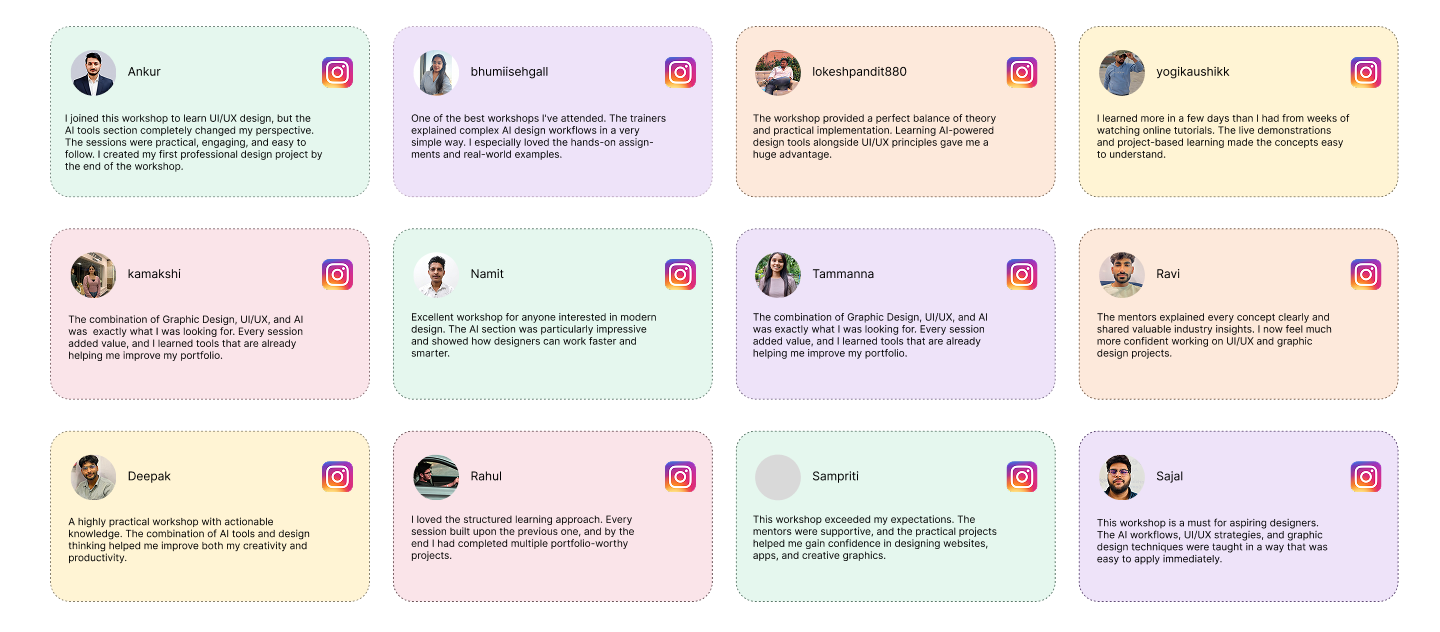
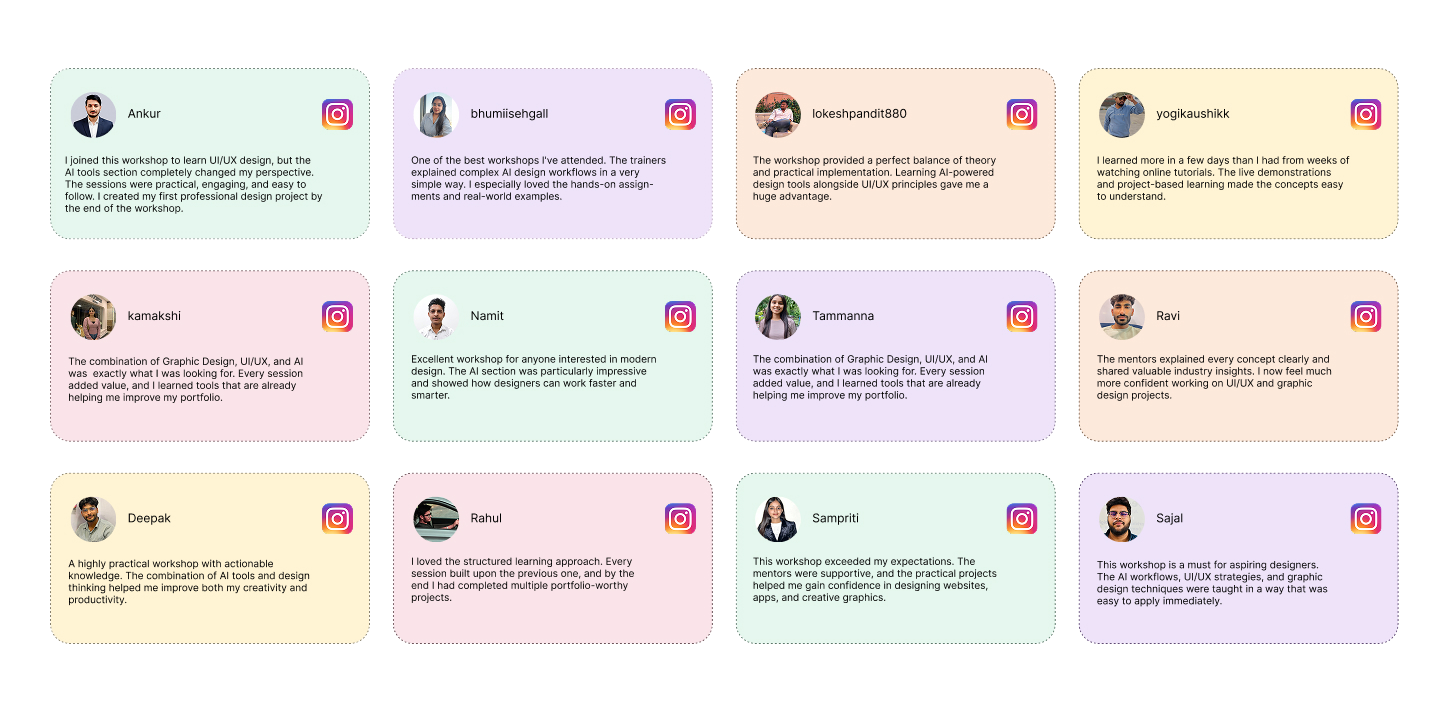
updated

diff --git a/index.html b/index.html
@@ -278,7 +278,7 @@ body{
 
   <!-- ================= LEFT : LOGO ================= -->
   <div class="flex items-center flex-shrink-0 min-w-0">
-<a href="/index.html"  aria-label="Go to Home Page">
+<a href="index.html"  aria-label="Go to Home Page">
     <img
       src="Assets/Desinerz_academy_light.png"
       alt="Desinerz Academy"
@@ -505,9 +505,8 @@ body{
 
     <!-- ═══ TOP HEADING — full width, centered, ALL screen sizes ═══ -->
     <div class="reveal text-center mb-5 max-[900px]:mb-3">
-      <h1 class="font-syne text-3xl font-extrabold mb-3.5 leading-snug 
-      text-[clamp(2rem,2vw,1.5rem)]
-        font-bold leading-tight tracking-tight">
+      <h1 class="font-syne text-3xl font-bold mb-3.5 leading-snug 
+    text-[1.8rem] sm:text-[2rem] lg:text-[2.5rem] tracking-tight">
         This <span class="gradient-text text-[28px] lg:text-[42px]">₹49 </span>Decision Could Change Your Career Forever.
       </h1>
     </div>
@@ -760,10 +759,12 @@ body{
     <div class="bento-card rounded-[18px] relative overflow-hidden border border-transparent cursor-default transition-all duration-300 hover:-translate-y-1 hover:border-blue-500/30 hover:shadow-[0_20px_60px_rgba(0,0,0,.5)] reveal flex flex-col" style="background:rgba(255,255,255,.03);--card-from:rgba(59,130,246,.06)">
       <!-- Arrow + Heading -->
       <div class="p-5 pb-3 flex items-start gap-3">
-        <div class="w-8 h-8 rounded-full flex items-center justify-center flex-shrink-0 mt-0.5" style="background:rgba(59,130,246,.15);border:1px solid rgba(59,130,246,.3)">
+        <div class="w-8 h-8 rounded-full flex items-center justify-center
+         flex-shrink-0 " style="background:rgba(59,130,246,.15);border:1px solid rgba(59,130,246,.3)">
           <svg width="14" height="14" viewBox="0 0 24 24" fill="none" stroke="#3b82f6" stroke-width="2.5" stroke-linecap="round" stroke-linejoin="round"><polyline points="7 17 17 7"/><polyline points="7 7 17 7 17 17"/></svg>
         </div>
-        <h3 class="font-syne text-[0.95rem] font-bold text-[#f0f4ff] leading-snug">Gen AI Tools Understanding</h3>
+        <h3 class="font-syne text-[0.95rem] font-bold
+         text-[#f0f4ff] leading-snug">Gen AI Tools Understanding</h3>
       </div>
       <!-- Divider -->
       <div class="mx-5 h-[1px]" style="background:rgba(255,255,255,.06)"></div>
@@ -782,7 +783,8 @@ body{
     <!-- Card 2 -->
     <div class="bento-card rounded-[18px] relative overflow-hidden border border-transparent cursor-default transition-all duration-300 hover:-translate-y-1 hover:border-purple-500/30 hover:shadow-[0_20px_60px_rgba(0,0,0,.5)] reveal flex flex-col" style="background:rgba(255,255,255,.03);--card-from:rgba(168,85,247,.06);transition-delay:.1s">
       <div class="p-5 pb-3 flex items-start gap-3">
-        <div class="w-8 h-8 rounded-full flex items-center justify-center flex-shrink-0 mt-0.5" style="background:rgba(168,85,247,.15);border:1px solid rgba(168,85,247,.3)">
+        <div class="w-8 h-8 rounded-full flex items-center justify-center
+         flex-shrink-0" style="background:rgba(168,85,247,.15);border:1px solid rgba(168,85,247,.3)">
           <svg width="14" height="14" viewBox="0 0 24 24" fill="none" stroke="#a855f7" stroke-width="2.5" stroke-linecap="round" stroke-linejoin="round"><polyline points="7 17 17 7"/><polyline points="7 7 17 7 17 17"/></svg>
         </div>
         <h3 class="font-syne text-[0.95rem] font-bold text-[#f0f4ff] leading-snug">10X Productivity & Growth</h3>
@@ -800,7 +802,7 @@ body{
     <!-- Card 3 -->
     <div class="bento-card rounded-[18px] relative overflow-hidden border border-transparent cursor-default transition-all duration-300 hover:-translate-y-1 hover:border-cyan-500/30 hover:shadow-[0_20px_60px_rgba(0,0,0,.5)] reveal flex flex-col" style="background:rgba(255,255,255,.03);--card-from:rgba(6,182,212,.06);transition-delay:.2s">
       <div class="p-5 pb-3 flex items-start gap-3">
-        <div class="w-8 h-8 rounded-full flex items-center justify-center flex-shrink-0 mt-0.5" style="background:rgba(6,182,212,.15);border:1px solid rgba(6,182,212,.3)">
+        <div class="w-8 h-8 rounded-full flex items-center justify-center flex-shrink-0 " style="background:rgba(6,182,212,.15);border:1px solid rgba(6,182,212,.3)">
           <svg width="14" height="14" viewBox="0 0 24 24" fill="none" stroke="#06b6d4" stroke-width="2.5" stroke-linecap="round" stroke-linejoin="round"><polyline points="7 17 17 7"/><polyline points="7 7 17 7 17 17"/></svg>
         </div>
         <h3 class="font-syne text-[0.95rem] font-bold text-[#f0f4ff] leading-snug">Understanding Tech Industry</h3>
@@ -818,7 +820,7 @@ body{
     <!-- Card 4 -->
     <div class="bento-card rounded-[18px] relative overflow-hidden border border-transparent cursor-default transition-all duration-300 hover:-translate-y-1 hover:border-pink-500/30 hover:shadow-[0_20px_60px_rgba(0,0,0,.5)] reveal flex flex-col" style="background:rgba(255,255,255,.03);--card-from:rgba(236,72,153,.06)">
       <div class="p-5 pb-3 flex items-start gap-3">
-        <div class="w-8 h-8 rounded-full flex items-center justify-center flex-shrink-0 mt-0.5" style="background:rgba(236,72,153,.15);border:1px solid rgba(236,72,153,.3)">
+        <div class="w-8 h-8 rounded-full flex items-center justify-center flex-shrink-0" style="background:rgba(236,72,153,.15);border:1px solid rgba(236,72,153,.3)">
           <svg width="14" height="14" viewBox="0 0 24 24" fill="none" stroke="#ec4899" stroke-width="2.5" stroke-linecap="round" stroke-linejoin="round"><polyline points="7 17 17 7"/><polyline points="7 7 17 7 17 17"/></svg>
         </div>
         <h3 class="font-syne text-[0.95rem] font-bold text-[#f0f4ff] leading-snug">Complete Graphic Design Roadmap</h3>
@@ -836,7 +838,7 @@ body{
     <!-- Card 5 -->
     <div class="bento-card rounded-[18px] relative overflow-hidden border border-transparent cursor-default transition-all duration-300 hover:-translate-y-1 hover:border-green-500/30 hover:shadow-[0_20px_60px_rgba(0,0,0,.5)] reveal flex flex-col" style="background:rgba(255,255,255,.03);--card-from:rgba(16,185,129,.06);transition-delay:.1s">
       <div class="p-5 pb-3 flex items-start gap-3">
-        <div class="w-8 h-8 rounded-full flex items-center justify-center flex-shrink-0 mt-0.5" style="background:rgba(16,185,129,.15);border:1px solid rgba(16,185,129,.3)">
+        <div class="w-8 h-8 rounded-full flex items-center justify-center flex-shrink-0 " style="background:rgba(16,185,129,.15);border:1px solid rgba(16,185,129,.3)">
           <svg width="14" height="14" viewBox="0 0 24 24" fill="none" stroke="#10b981" stroke-width="2.5" stroke-linecap="round" stroke-linejoin="round"><polyline points="7 17 17 7"/><polyline points="7 7 17 7 17 17"/></svg>
         </div>
         <h3 class="font-syne text-[0.95rem] font-bold text-[#f0f4ff] leading-snug">How To Become A UI/UX Designer</h3>
@@ -854,7 +856,7 @@ body{
     <!-- Card 6 -->
     <div class="bento-card rounded-[18px] relative overflow-hidden border border-transparent cursor-default transition-all duration-300 hover:-translate-y-1 hover:border-amber-500/30 hover:shadow-[0_20px_60px_rgba(0,0,0,.5)] reveal flex flex-col" style="background:rgba(255,255,255,.03);--card-from:rgba(245,158,11,.06);transition-delay:.2s">
       <div class="p-5 pb-3 flex items-start gap-3">
-        <div class="w-8 h-8 rounded-full flex items-center justify-center flex-shrink-0 mt-0.5" style="background:rgba(245,158,11,.15);border:1px solid rgba(245,158,11,.3)">
+        <div class="w-8 h-8 rounded-full flex items-center justify-center flex-shrink-0" style="background:rgba(245,158,11,.15);border:1px solid rgba(245,158,11,.3)">
           <svg width="14" height="14" viewBox="0 0 24 24" fill="none" stroke="#f59e0b" stroke-width="2.5" stroke-linecap="round" stroke-linejoin="round"><polyline points="7 17 17 7"/><polyline points="7 7 17 7 17 17"/></svg>
         </div>
         <h3 class="font-syne text-[0.95rem] font-bold text-[#f0f4ff] leading-snug">Industry-Level Portfolio Creation</h3>
@@ -1444,14 +1446,38 @@ body{
             +91 7027948583
           </a>
         </li>
-        <li class="flex items-start justify-center sm:justify-start gap-2.5 text-[#8892b0] text-[0.85rem] break-all cursor-pointer">
-          <svg xmlns="http://www.w3.org/2000/svg" class="w-4 h-4 flex-shrink-0 mt-[2px]" fill="none" viewBox="0 0 24 24" stroke="currentColor">
-            <path stroke-linecap="round" stroke-linejoin="round" stroke-width="1.8" d="M21 12A9 9 0 1112 3m0 0c2.5 2.5 4 5.5 4 9s-1.5 6.5-4 9m0-18c-2.5 2.5-4 5.5-4 9s1.5 6.5 4 9"/></svg>
-          <a href="https://desinerzacademy.com" target="_blank" rel="noopener noreferrer"
-            class="text-[#8892b0] hover:text-white transition-all duration-300">
-            desinerzacademy.com
-          </a>
-        </li>
+      <li class="flex items-start justify-center sm:justify-start gap-2.5
+    text-[#8892b0] text-[0.85rem] text-white break-all cursor-pointer">
+
+  <svg
+    xmlns="http://www.w3.org/2000/svg"
+    fill="none"
+    viewBox="0 0 24 24"
+    stroke="currentColor"
+    class="w-4 h-4 sm:w-5 sm:h-5 text-[#8892b0] flex-shrink-0 mt-[2px]"
+  >
+    <path
+      stroke-linecap="round"
+      stroke-linejoin="round"
+      stroke-width="1.8"
+      d="M21 12a9 9 0 11-18 0 9 9 0 0118 0z"
+    />
+    <path
+      stroke-linecap="round"
+      stroke-linejoin="round"
+      stroke-width="1.8"
+      d="M3 12h18M12 3c2.5 2.5 4 5.8 4 9s-1.5 6.5-4 9m0-18c-2.5 2.5-4 5.8-4 9s1.5 6.5 4 9"
+    />
+  </svg>
+
+  <a href="https://desinerzacademy.com"
+     target="_blank"
+     rel="noopener noreferrer"
+     class="text-[#8892b0] hover:text-white transition-all duration-300">
+    desinerzacademy.com
+  </a>
+
+</li>
       </ul>
     </div>
 